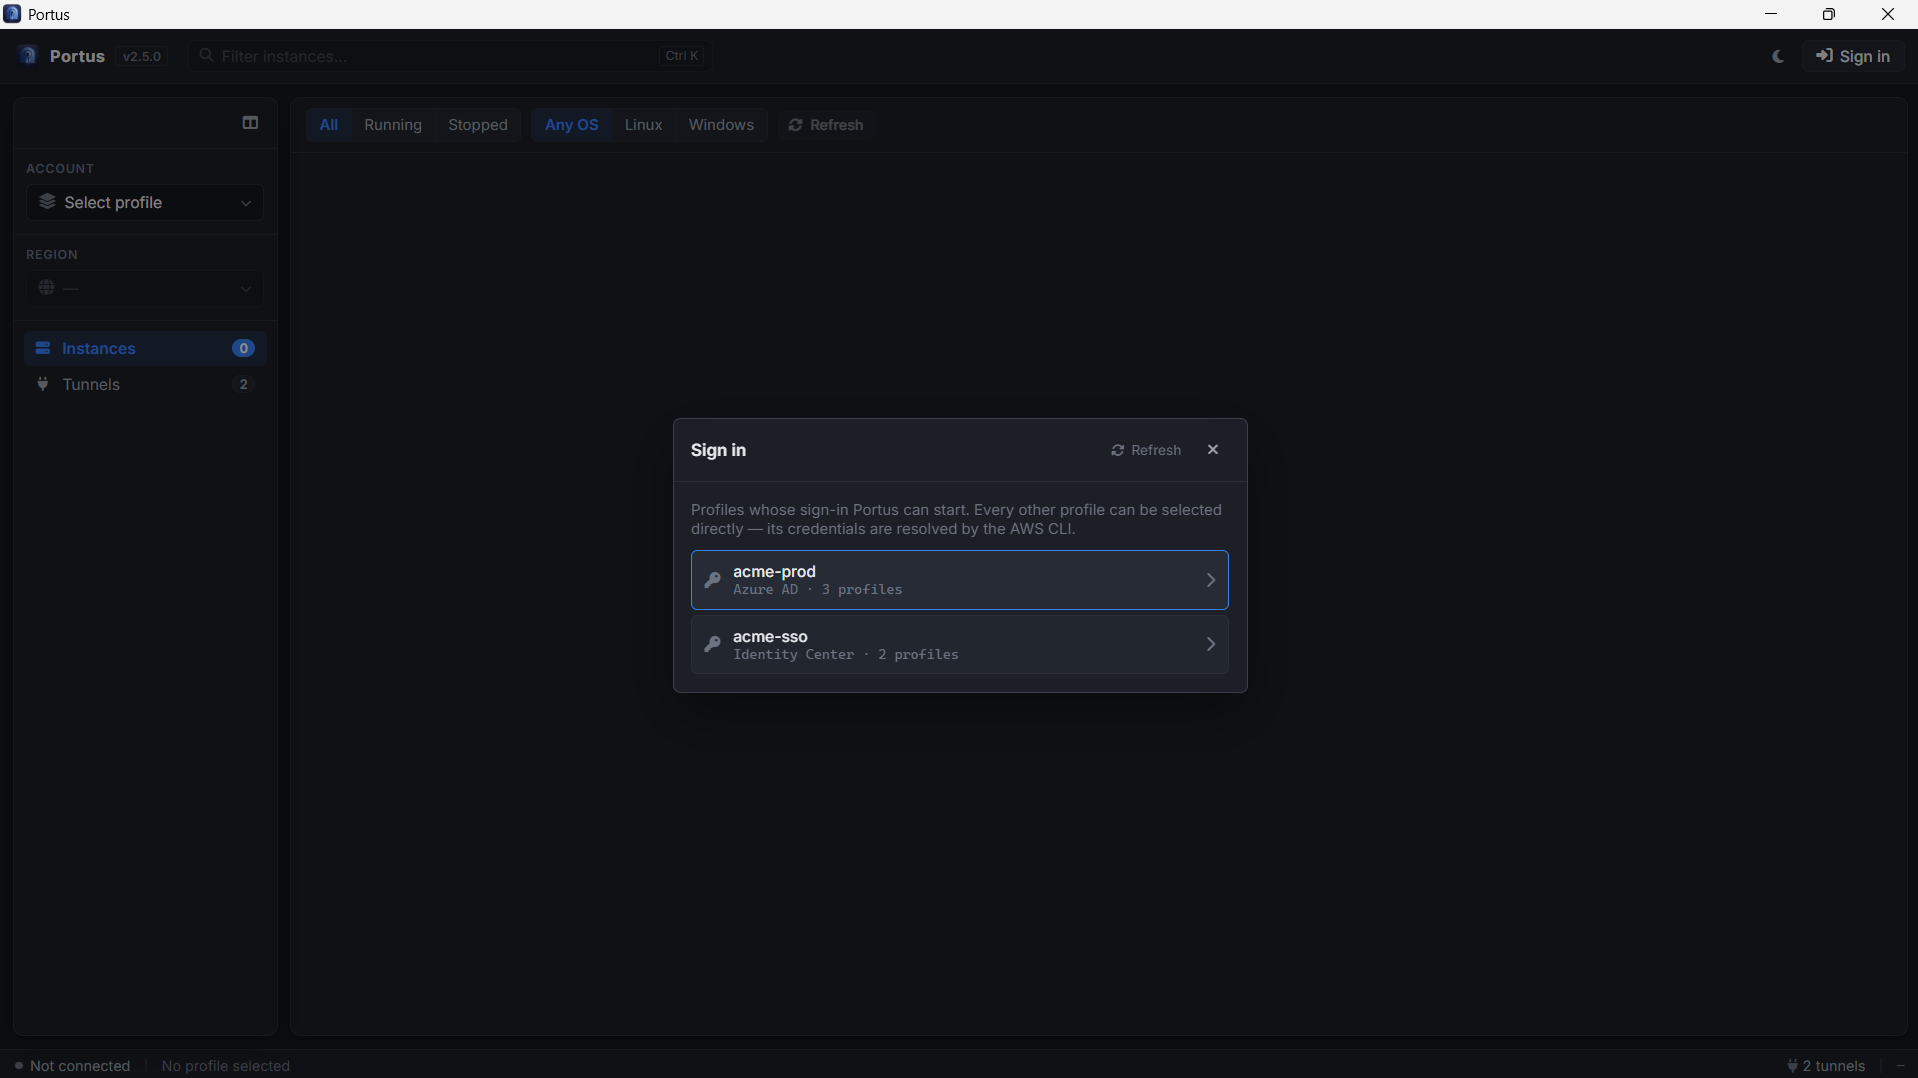
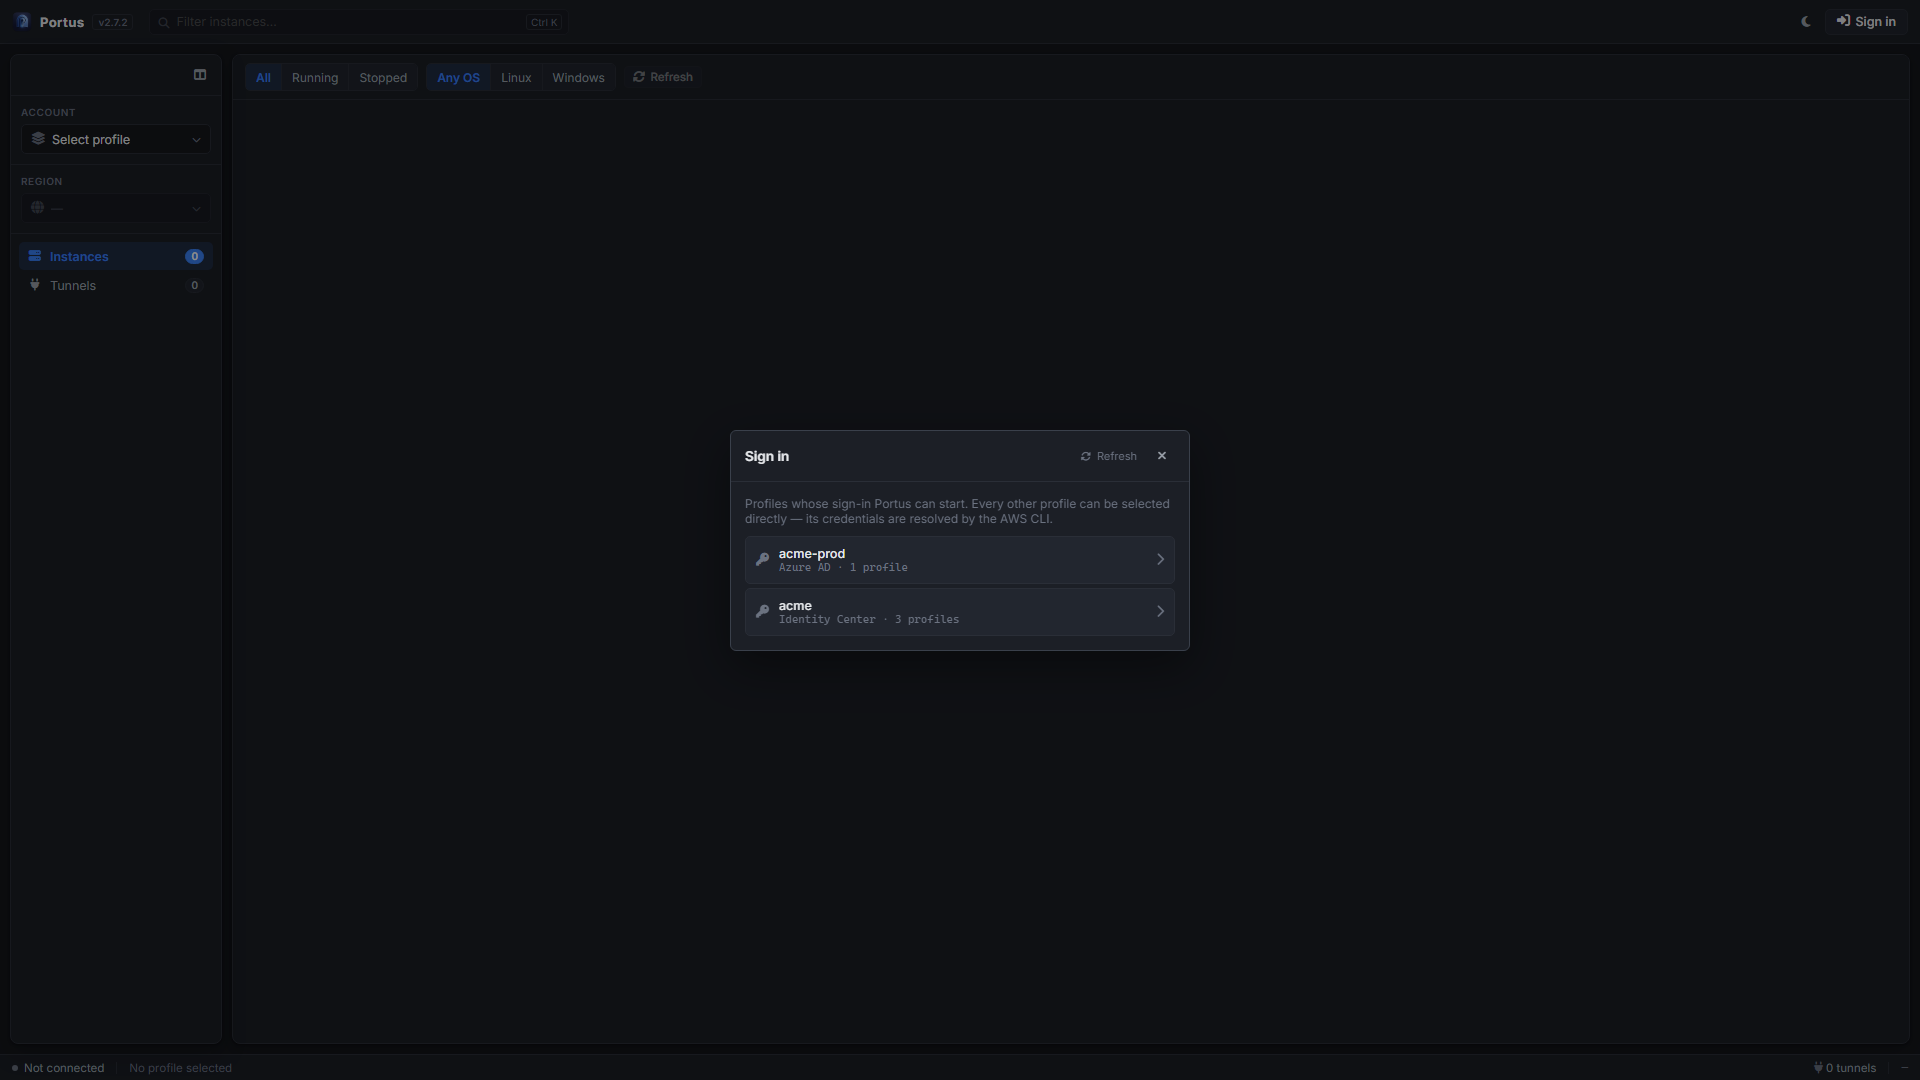
Refresh the screenshots for what the app does now
The set was taken before EKS, before the kubectl button, and before an
unmanaged instance could be reached at all, so three of the five showed
a version of Portus that no longer exists.

Adds the Access via… dialog, and corrects the text around them: the
instance list no longer claims connect buttons appear only where
Systems Manager can reach, since that is exactly the case that now has
an action.

diff --git a/README.md b/README.md
@@ -102,22 +102,30 @@ sign-in covers.
 ![The Sign in dialog listing an Azure AD and an Identity Center login](screenshots/02-sign-in.png)
 
 **3. Instances** — the fleet for the selected profile and region, with SSM
-readiness per instance. Connect buttons only appear where Systems Manager can
-actually reach the instance. Selecting a row opens its details, and the name,
+readiness per instance. A row Systems Manager cannot reach offers **Access via…**
+instead of the usual buttons. Selecting a row opens its details, and the name,
 instance ID and private IP can be copied from the row itself.
 
 ![The instance list showing state, SSM status and connect actions](screenshots/03-instances.png)
 
 **4. Forward a port** — tunnel to the instance itself or to a host it can reach.
-Managed database and cache endpoints in the region are offered directly, with the
-real port filled in.
+Managed database, cache and EKS endpoints in the region are offered directly, with
+the real port filled in.
 
 ![The Forward a port dialog with service presets and endpoint discovery](screenshots/04-ports.png)
 
-**5. Tunnels** — everything open, with its local address and live uptime. Copy the
-address or disconnect from here; they are all closed when Portus exits.
+**5. Tunnels** — everything open, with its local address and live uptime. A tunnel
+to a cluster gets a **kubectl** button; one that reached its target through
+another instance says so. Copy the address or disconnect from here; they are all
+closed when Portus exits.
 
-![The Tunnels view listing an open port forward and an RDP tunnel](screenshots/05-tunnels.png)
+![The Tunnels view listing a database forward, an EKS cluster and an RDP tunnel through a hop](screenshots/05-tunnels.png)
+
+**6. Access via…** — an instance with no SSM agent of its own, reached through one
+that has. The hop is preselected from the same subnet and can be changed; nothing
+is installed on the target.
+
+![The Access via dialog with a hop preselected and Remote Desktop chosen](screenshots/06-access-via.png)
 
 ---
 
